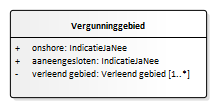
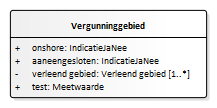
Conceptualmodel-EPLconceptueel-0.1-1-20201106-20201201-135613

Changed region(s): [[0.1382, 0.75, 0.4977, 0.8333], [0.0553, 0.7778, 0.1106, 0.8333]]

diff --git a/data/EPL-cat.msword.html b/data/EPL-cat.msword.html
@@ -15,7 +15,7 @@
    <body>
       <p>Conceptual model/EPL conceptueel/20201106</p>
       <p>Imvertor: 1.62.1</p>
-      <p>Model release: Conceptualmodel-EPLconceptueel-0.1-1-20201106-20201130-230746</p>
+      <p>Model release: Conceptualmodel-EPLconceptueel-0.1-1-20201106-20201201-135613</p>
       <hr>
       <section>
          <h1>Artikel 1 Definitie van registratieobject, entiteiten en attributen</h1>
@@ -42,7 +42,7 @@
          <section>
             <h2>Het domeinmodel</h2>
             <section id="">
-               <div class="imageinfo overview"><img src="Images/EAID_4B6A330A_F5EC_4482_B697_367B249DB287.png" usemap="#imagemap-EAID_4B6A330A_F5EC_4482_B697_367B249DB287" alt="Diagram "><map name="imagemap-EAID_4B6A330A_F5EC_4482_B697_367B249DB287"><area shape="rect" alt="Verleend gebied" coords="725,144,1010,232" href="#graph_EAID_FE57740F_46E2_4939_95A1_191BFFDB4F51"><area shape="rect" alt="Vergunninggebied" coords="730,33,1013,95" href="#graph_EAID_55848D58_82A4_4b0e_AE8B_281669C7CA59"><area shape="rect" alt="Mijnbouwwetvergunning" coords="344,10,649,202" href="#graph_EAID_79464324_589F_4408_BD2E_501CBB622EC8"></map><p><b>Domeinmodel BRO mijnbouwwetvergunning</b></p>
+               <div class="imageinfo overview"><img src="Images/EAID_4B6A330A_F5EC_4482_B697_367B249DB287.png" usemap="#imagemap-EAID_4B6A330A_F5EC_4482_B697_367B249DB287" alt="Diagram "><map name="imagemap-EAID_4B6A330A_F5EC_4482_B697_367B249DB287"><area shape="rect" alt="Verleend gebied" coords="563,85,848,173" href="#graph_EAID_FE57740F_46E2_4939_95A1_191BFFDB4F51"><area shape="rect" alt="Vergunninggebied" coords="568,-26,851,49" href="#graph_EAID_55848D58_82A4_4b0e_AE8B_281669C7CA59"><area shape="rect" alt="Mijnbouwwetvergunning" coords="182,-49,487,143" href="#graph_EAID_79464324_589F_4408_BD2E_501CBB622EC8"></map><p><b>Domeinmodel BRO mijnbouwwetvergunning</b></p>
                </div>
             </section>
          </section>
@@ -623,6 +623,48 @@
                            <tr>
                               <th>&nbsp;&nbsp;Type</th>
                               <td>Waardelijst niet uitbreidbaar</td>
+                           </tr>
+                        </tbody>
+                     </table>
+                     </section><a class="anchor" id="detail_attribute_DomeinmodelBROEPL_Vergunninggebied_test"></a><section id="detail_attribute_DomeinmodelBROEPL_Vergunninggebied_test">
+                     <h4>  test</h4>
+                     
+                     <table style="width: 100%;">
+                        <colgroup style="width: 30%;"></colgroup>
+                        <colgroup style="width: 70%;"></colgroup>
+                        <tbody>
+                           <tr>
+                              <th>Type gegeven</th>
+                              <td>Attribuut van Vergunninggebied</td>
+                           </tr>
+                           <tr>
+                              <th>Definitie</th>
+                              <td>
+                                 
+                                 <p>De aanduiding die aangeeft of het vergunninggebied bij verlening een aaneengesloten
+                                    geheel is.</p>
+                                 </td>
+                           </tr>
+                           <tr>
+                              <th>Juridische status</th>
+                              <td>Authentiek</td>
+                           </tr>
+                           <tr>
+                              <th>Kardinaliteit</th>
+                              <td>1</td>
+                           </tr>
+                           <tr>
+                              <th>Domein</th>
+                              <td></td>
+                           </tr>
+                           <tr>
+                              <th>&nbsp;&nbsp;Naam</th>
+                              <td>Meetwaarde 
+                                 </td>
+                           </tr>
+                           <tr>
+                              <th>&nbsp;&nbsp;Waardebereik</th>
+                              <td> tot 0</td>
                            </tr>
                         </tbody>
                      </table>
